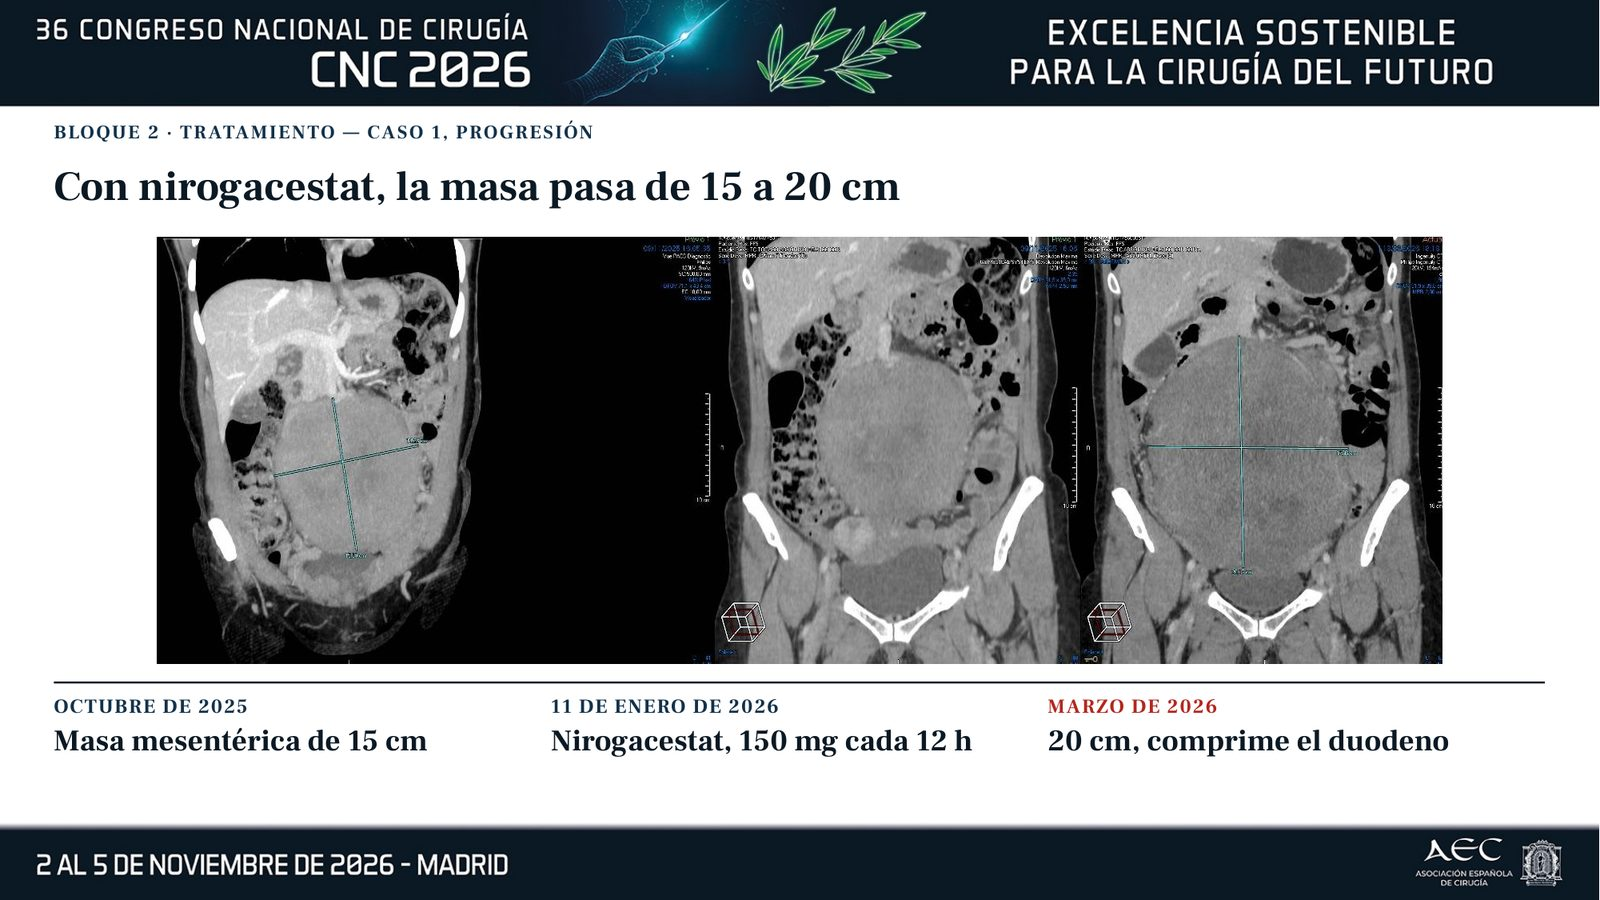
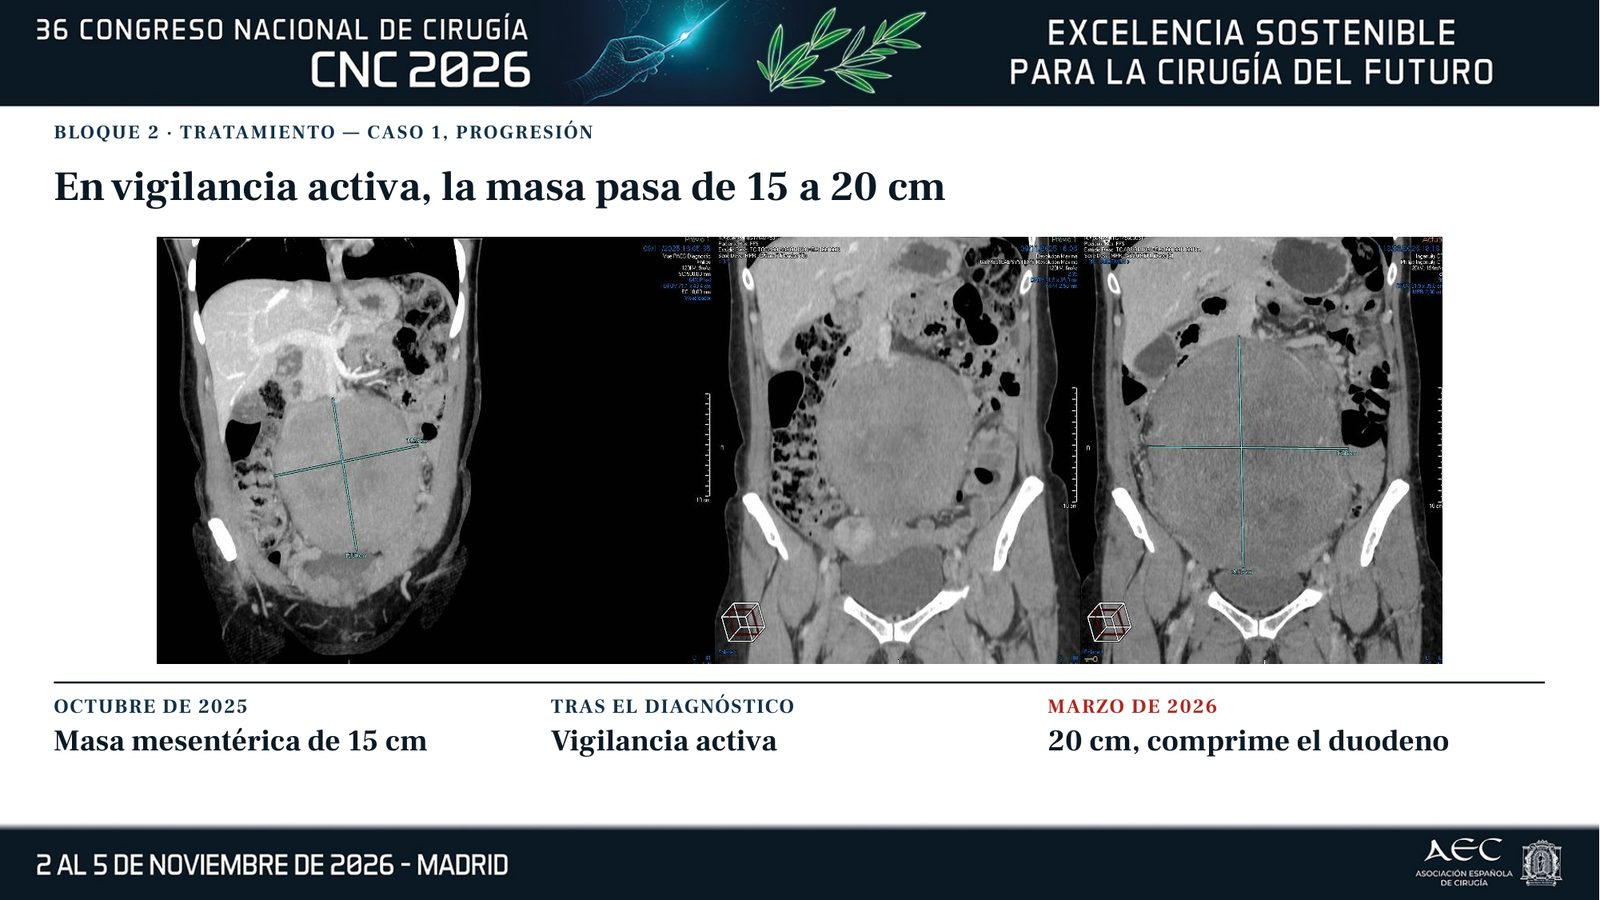
feat: caso 1 progresa en vigilancia activa, sin nirogacestat previo
La pregunta 8 pasa a ser el tratamiento de elección tras progresar en
vigilancia, con nirogacestat entre las opciones. El esquema de la respuesta
mostraba un 70% de reducción de tamaño cuando el dato es 14 de 20
pacientes con regresión: corregido.

Changed region(s): [[0.0312, 0.1867, 0.5938, 0.2489], [0.3438, 0.7778, 0.625, 0.84]]

diff --git a/preguntas.js b/preguntas.js
@@ -234,8 +234,8 @@ export const PREGUNTAS = [
   {
     "id": "p8",
     "etiqueta": "Tratamiento · 4 de 4",
-    "enunciado": "Vuelve el caso. Nirogacestat 150 mg cada 12 horas desde enero de 2026. En marzo la masa pasa de 15 × 14 × 10,8 a 20 × 17 × 14 cm y comprime la 2.ª y 3.ª porción duodenal. Irresecable.",
-    "pregunta": "¿Cuál es el siguiente paso?",
+    "enunciado": "Vuelve el caso, en vigilancia activa y sin tratamiento previo. En marzo de 2026 la masa pasa de 15 × 14 × 10,8 a 20 × 17 × 14 cm, centrada en la raíz del mesenterio: desplaza los vasos mesentéricos superiores y comprime la 2.ª y 3.ª porción duodenal, con distensión gástrica. Irresecable.",
+    "pregunta": "¿Cuál es el tratamiento de elección?",
     "opciones": [
       {
         "id": "A",
@@ -247,21 +247,21 @@ export const PREGUNTAS = [
       },
       {
         "id": "C",
-        "texto": "Cambio a sorafenib"
+        "texto": "Nirogacestat"
       },
       {
         "id": "D",
-        "texto": "Radioterapia externa sobre la masa"
+        "texto": "Sorafenib"
       },
       {
         "id": "E",
-        "texto": "Vigilancia y repetir TC en 6 meses"
+        "texto": "Seguir vigilando y repetir TC en 3 meses"
       }
     ],
     "correcta": "B",
-    "clave": "Doxorrubicina liposomal: la mejor relación entre profundidad y durabilidad de respuesta en enfermedad voluminosa.",
-    "explicacion": "En la serie del MSKCC, de los tratados con doxorrubicina liposomal en primera línea el 70% redujo tamaño, con una supervivencia libre de progresión a 5 años del 67,6% frente al 50,5% del resto de agentes. Las respuestas son duraderas: de 14 pacientes con regresión, solo 2 recrecieron, a los 11 y 36 meses de suspender, y ambos se manejaron con observación. En la raíz del mesenterio el bisturí es el tratamiento de más riesgo, no el de más control.",
-    "referencias": "Serie MSKCC 1993-2023 · Kasper B. JAMA Oncol 2024"
+    "clave": "Doxorrubicina liposomal: cuando la masa ya comprime el duodeno, hace falta una respuesta rápida y profunda.",
+    "explicacion": "La progresión en vigilancia activa con compresión duodenal es indicación de tratamiento activo, y la cirugía queda descartada por la localización. Nirogacestat es el único fármaco aprobado y el de mejor evidencia en progresión (DeFi: HR de progresión 0,29; respuesta objetiva del 41%), pero la mediana hasta la respuesta fue de 5,6 meses, y aquí la masa ya comprime el duodeno. En la serie del MSKCC, 14 de 20 pacientes con doxorrubicina liposomal en primera línea (70%) tuvieron regresión, con una supervivencia libre de progresión a 5 años del 67,6% frente al 50,5% del resto de agentes (diferencia no significativa). Las respuestas son duraderas: de 14 regresiones solo 2 recrecieron tras suspender. Nirogacestat y sorafenib siguen siendo opciones razonables cuando no hay compresión ni prisa.",
+    "referencias": "Serie MSKCC 1993-2023 · Gounder M. N Engl J Med 2023 (DeFi) · Kasper B. JAMA Oncol 2024"
   },
   {
     "id": "p9",

diff --git a/charla.html b/charla.html
@@ -112,7 +112,7 @@ html, body {
 </div>
 
 <script type="module">
-import { PREGUNTAS } from "./preguntas.js?v=a3a03402ae";
+import { PREGUNTAS } from "./preguntas.js?v=91b9b4144b";
 import { datos, contar } from "./datos.js";
 
 const $ = (id) => document.getElementById(id);

diff --git a/index.html b/index.html
@@ -60,7 +60,7 @@
 </main>
 
 <script type="module">
-import { PREGUNTAS } from "./preguntas.js?v=a3a03402ae";
+import { PREGUNTAS } from "./preguntas.js?v=91b9b4144b";
 import { datos, contar, idCliente } from "./datos.js";
 
 const $ = (id) => document.getElementById(id);

diff --git a/presentador.html b/presentador.html
@@ -54,7 +54,7 @@
 </div>
 
 <script type="module">
-import { PREGUNTAS } from "./preguntas.js?v=a3a03402ae";
+import { PREGUNTAS } from "./preguntas.js?v=91b9b4144b";
 import { datos, contar } from "./datos.js";
 
 const $ = (id) => document.getElementById(id);
